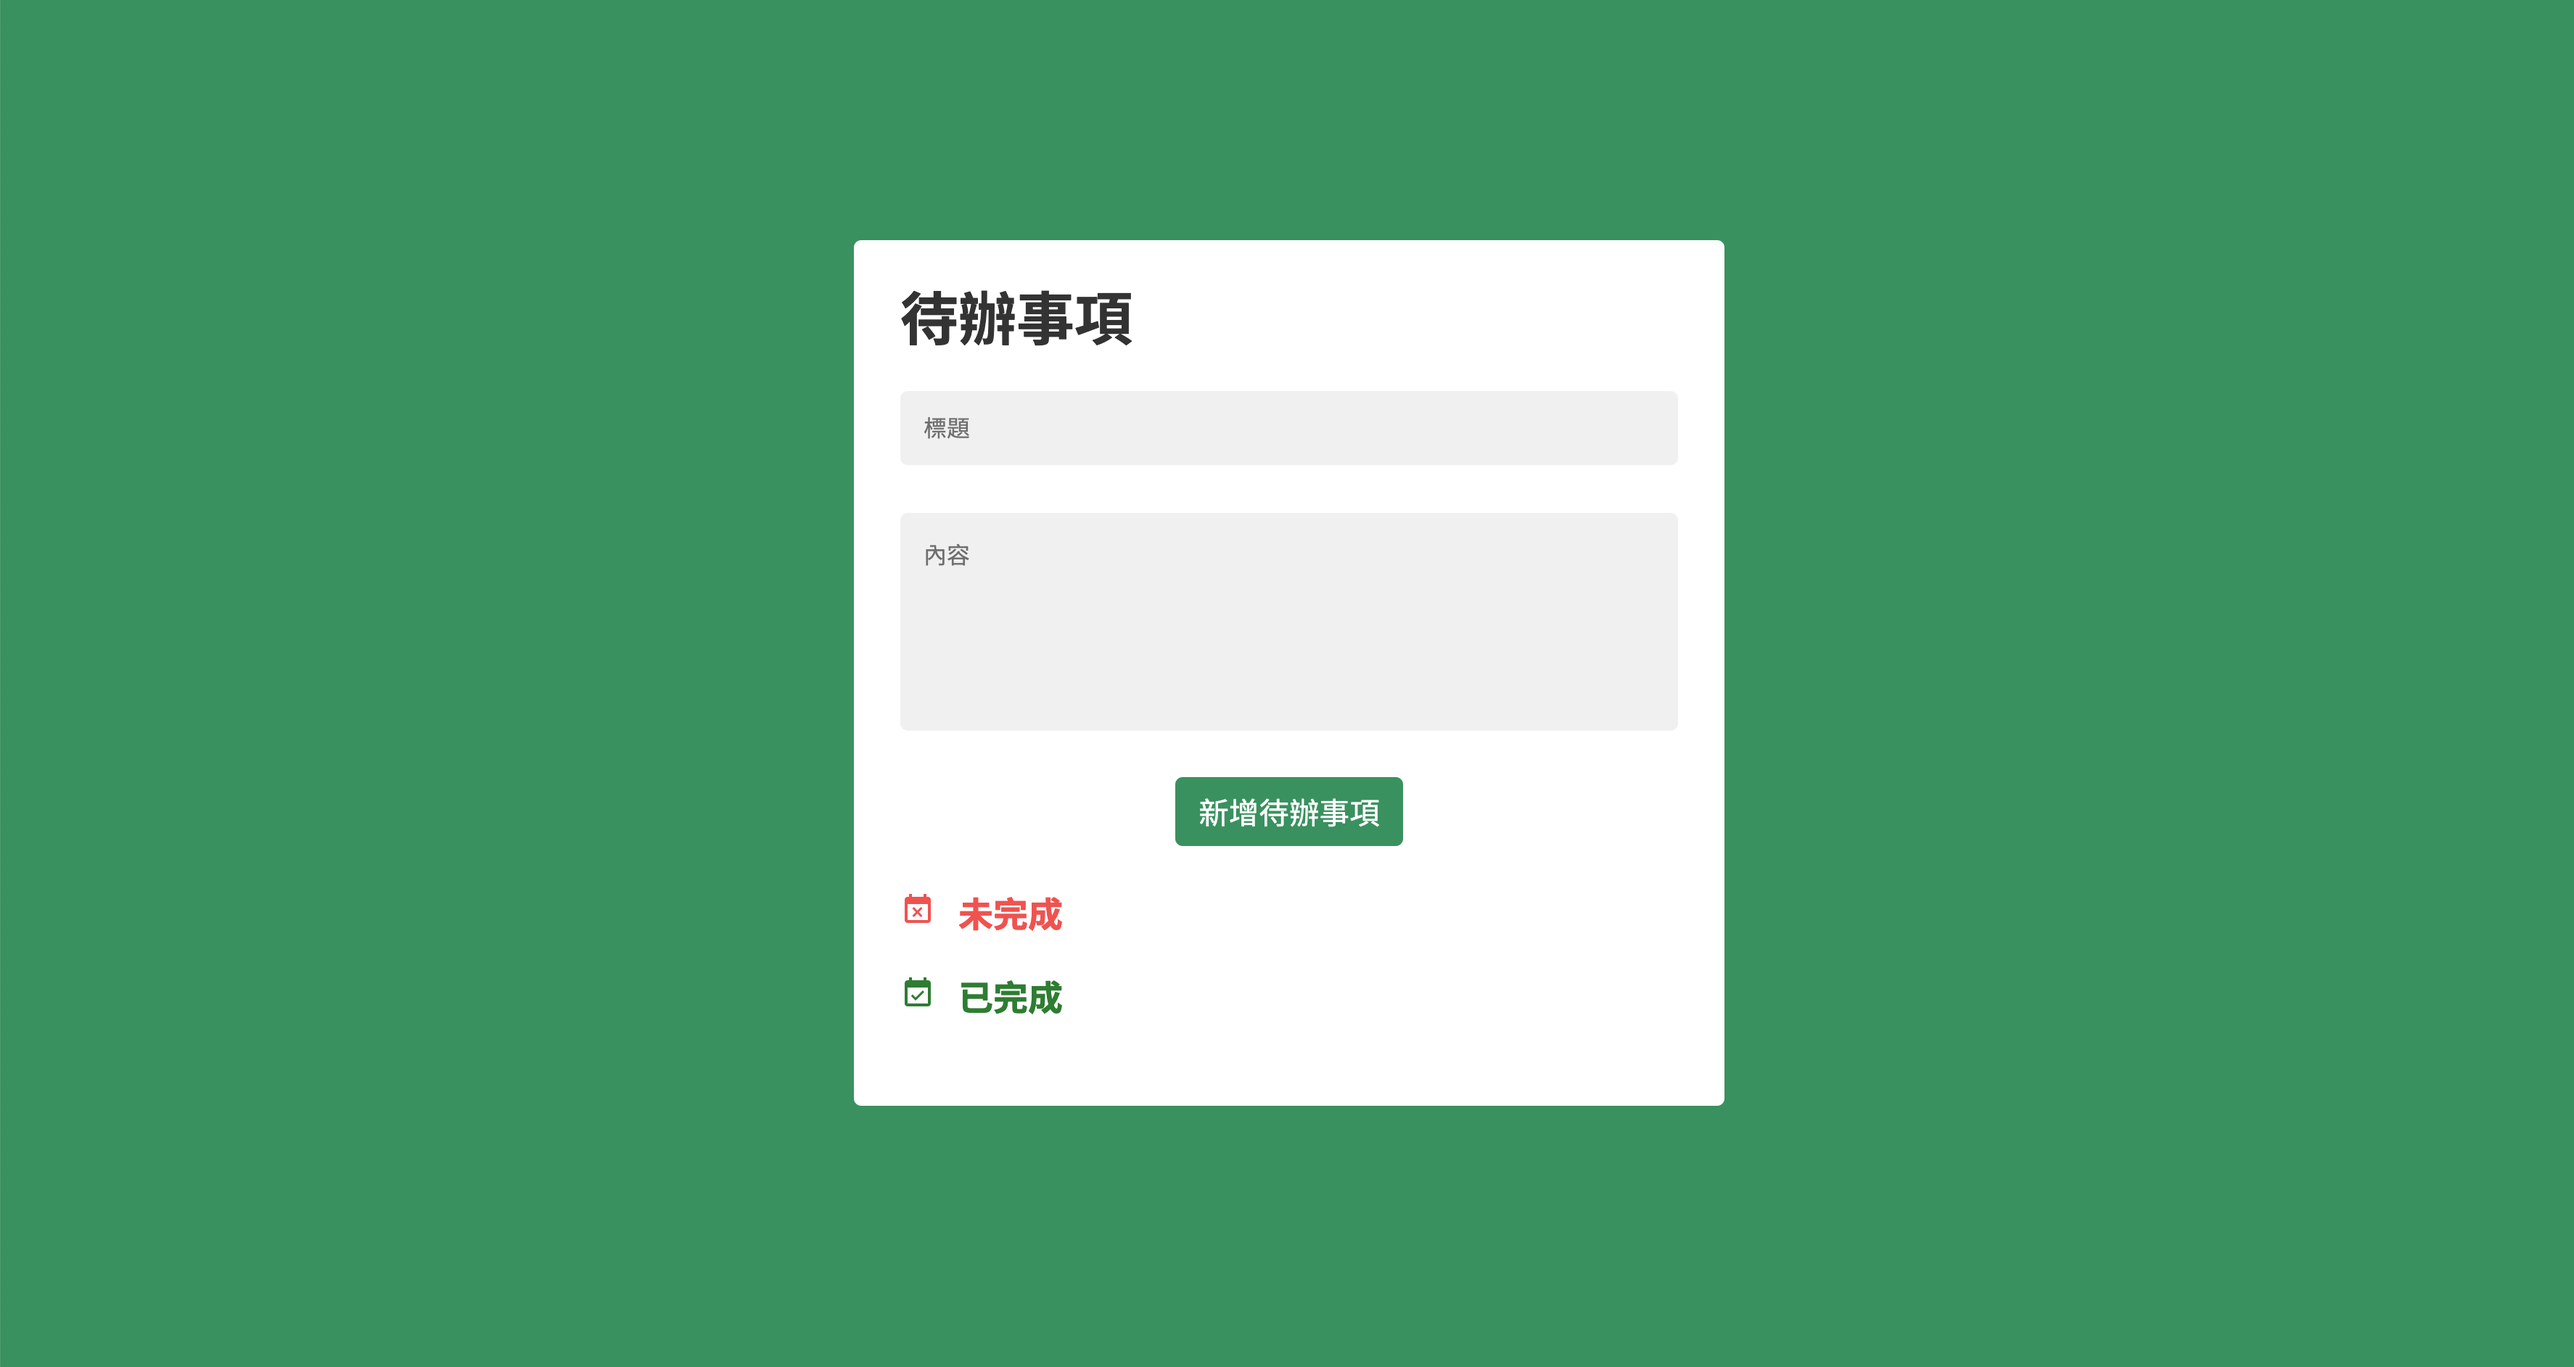
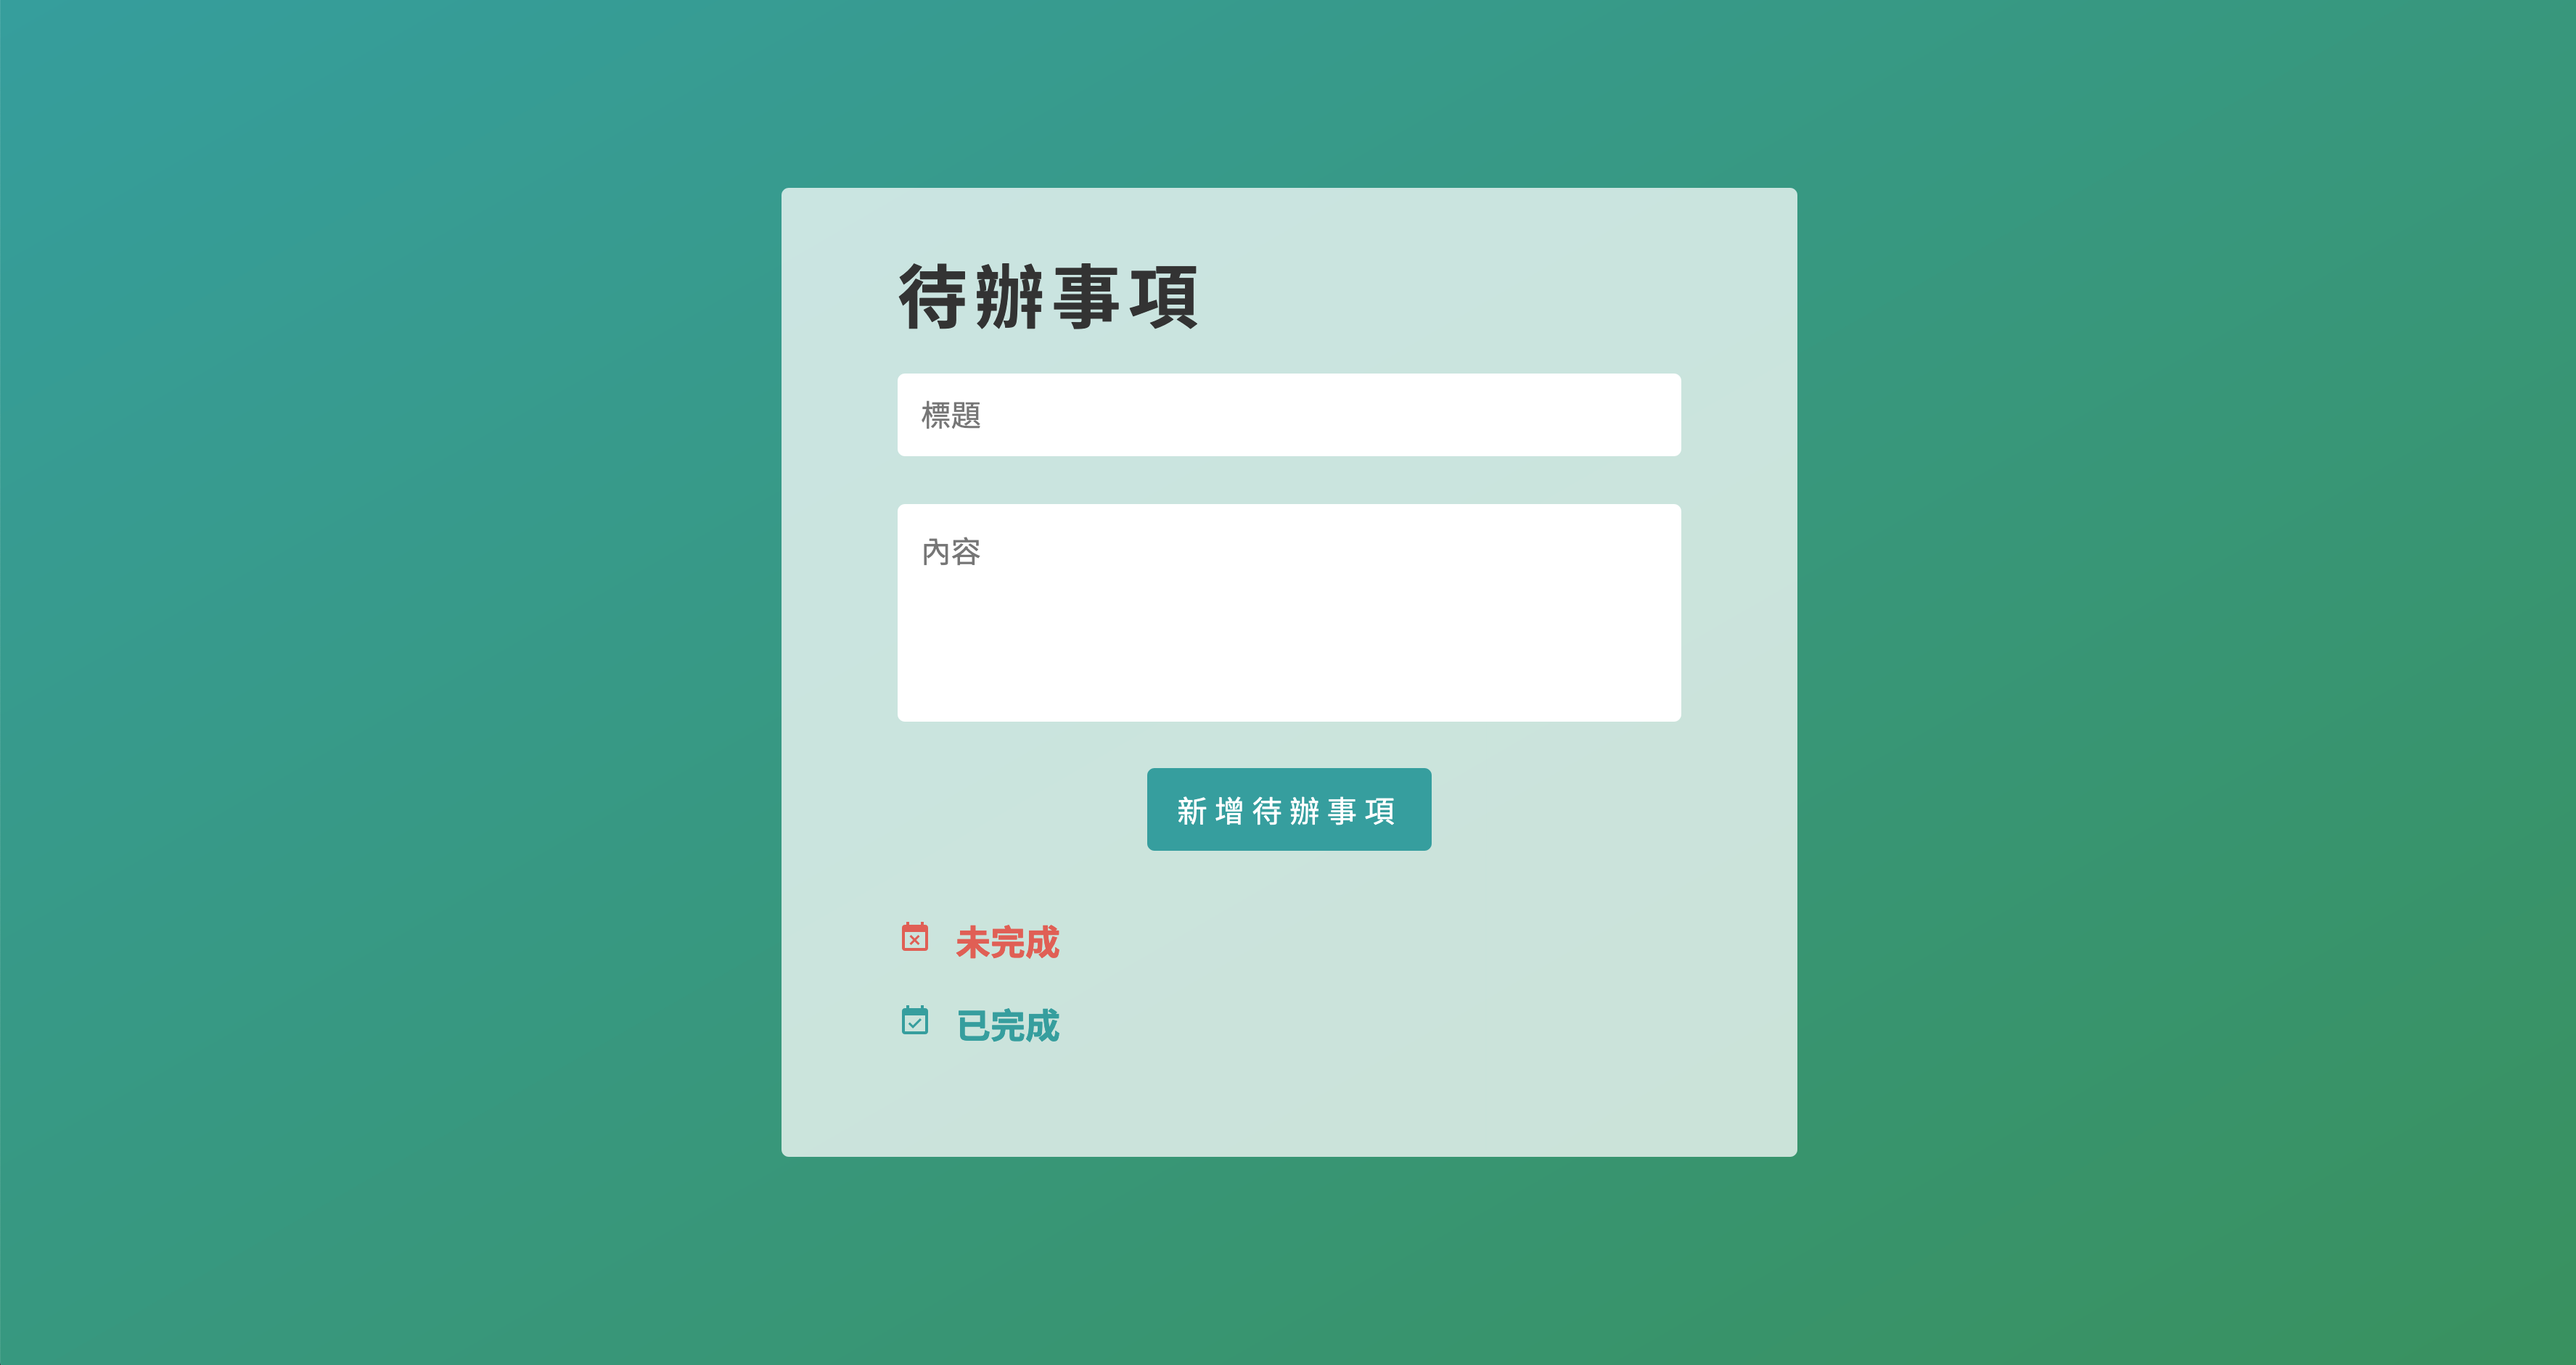
update react todo list style

diff --git a/src/views/react-todo-list/style.ts b/src/views/react-todo-list/style.ts
@@ -2,7 +2,7 @@ import styled from 'styled-components';
 
 const style = {
   color: '#1877f2',
-  boxShadow: '0 0 0 2px #39915f',
+  boxShadow: '0 0 0 2px #369e9e',
   marginBottom: '2rem',
 };
 
@@ -11,36 +11,41 @@ export const TodoList = styled.div`
   display:flex;
   justify-content: center;
   align-items: center;
-  background-color: #39915f;
+  background: linear-gradient(150deg, #369e9e, #39915f);
 `;
 
 export const Container = styled.div`
-  flex: 0 1 600px;
+  flex: 0 1 700px;
   margin: 5rem 0;
-  padding: 2rem;
-  background-color: #fff;
+  padding: 3rem 5rem;
+  background-color: #ffffffbc;
   border-radius: 5px;
+
+  @media screen and (max-width: 768px) {
+    padding: 2rem 1.5rem;
+  }
 `;
 
 export const Title = styled.h1`
   color: #333;
   margin-bottom: ${style.marginBottom};
-  font-size: 2.5rem;
+  font-size: 3rem;
   font-weight: 700;
+  letter-spacing: 5px;
 `;
 
 export const UserInput = styled.form`
-  margin-bottom: ${style.marginBottom};
+  margin-bottom: 3rem;
 `;
 
 export const InputTitle = styled.input`
   width: 100%;
   padding: 1rem;
   margin-bottom: ${style.marginBottom};
-  font-size: 1rem;
+  font-size: 1.3rem;
   border: 0;
   border-radius: 5px;
-  background-color: #f0f0f0;
+  background-color: #fff;
   &:focus {
     outline: none;
     box-shadow: ${style.boxShadow};
@@ -53,10 +58,10 @@ export const InputContent = styled.textarea`
   height: 150px;
   padding: 1rem;
   margin-bottom: ${style.marginBottom};
-  font-size: 1rem;
+  font-size: 1.3rem;
   border: 0;
   border-radius: 5px;
-  background-color: #f0f0f0;
+  background-color: #fff;
 
   &:focus {
     outline: none;
@@ -66,13 +71,13 @@ export const InputContent = styled.textarea`
 
 export const Btn = styled.div`
   text-align: center;
-  margin-bottom: ${style.marginBottom};
   > button {
     cursor: pointer;
     font-size: 1.3rem;
+    letter-spacing: 5px;
     color: #fff;
-    background-color: #39915f;
-    padding: 0.5rem 1rem;
+    background-color: #369e9e;
+    padding: 0.8rem 1.3rem;
     border: 0;
     border-radius: 5px;
   }

diff --git a/src/views/react-todo-list/components/List/List.tsx b/src/views/react-todo-list/components/List/List.tsx
@@ -11,7 +11,7 @@ import { TListPorps, TTodo } from '../../type';
 const List: FC<TListPorps> = ({ todos, todoDone }) => {
   return (
     <ListDiv>
-      <Category color="#ef5350">
+      <Category color="#e05f55">
         <EventBusy />
         <span>未完成</span>
       </Category>
@@ -19,7 +19,7 @@ const List: FC<TListPorps> = ({ todos, todoDone }) => {
         (ele: TTodo) =>
           !ele.done && <ListCard key={ele.time} {...ele} todoDone={todoDone} />,
       )}
-      <Category color="#2e7d32">
+      <Category color="#369E9E">
         <EventAvailable />
         <span>已完成</span>
       </Category>

diff --git a/src/views/react-todo-list/components/Card/style.ts b/src/views/react-todo-list/components/Card/style.ts
@@ -18,13 +18,12 @@ export const ListCard = styled.div`
   align-items: center;
   margin: 1.5rem 0;
   padding: 1rem;
-  border: 2px solid #f0f0f0;
+  background-color: #fff;
   border-radius: 5px;
   transition: 0.1s;
   animation: ${fadeIn} 0.5s linear;
   &:hover {
     transform: translateY(-10px);
-    box-shadow: 0 0 10px #aaa;
   }
 `;
 
